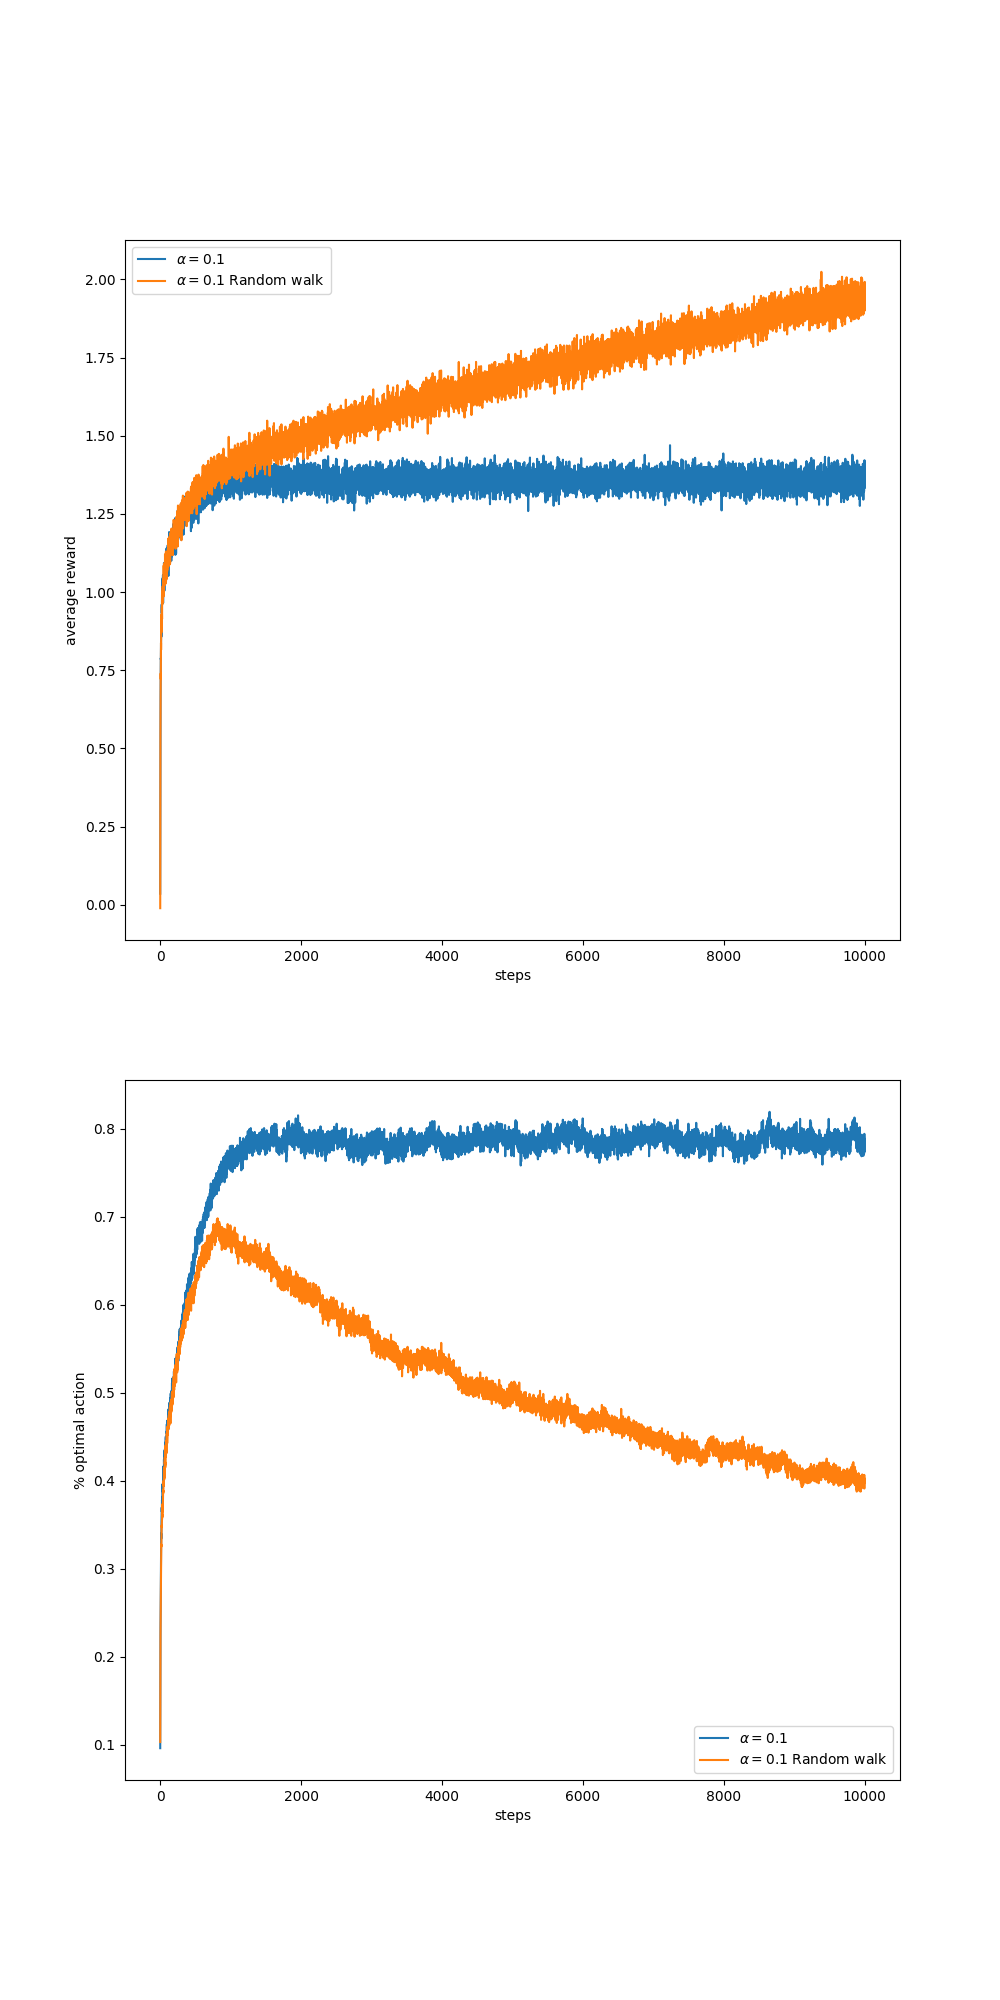
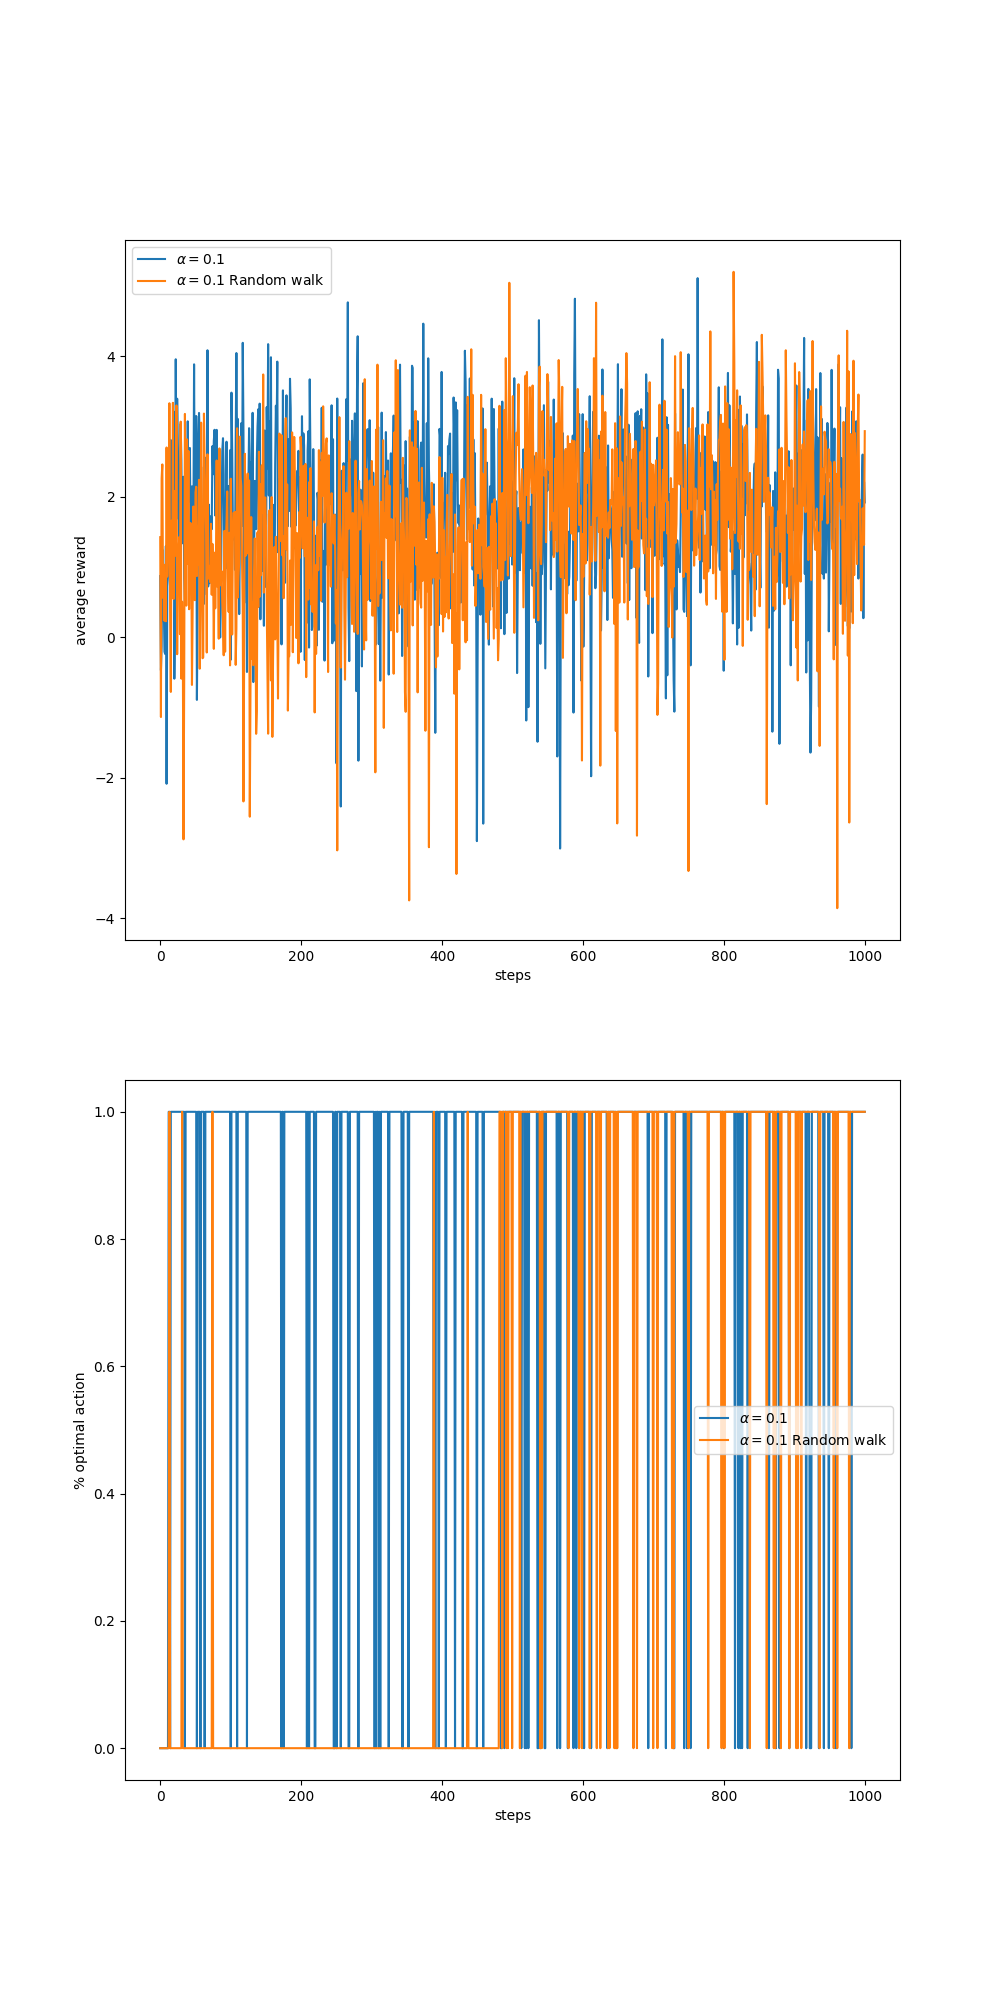
Error en exo 2.5

diff --git a/chapter02/random_walk.py b/chapter02/random_walk.py
@@ -9,6 +9,7 @@
 #######################################################################
 # Modified to include solution to programming exercises in Sutton&Barto 2018 edition.
 
+import pdb
 import matplotlib
 import matplotlib.pyplot as plt
 import numpy as np
@@ -123,7 +124,7 @@ def simulate(runs, time, bandits):
     mean_rewards = rewards.mean(axis=1)
     return mean_best_action_counts, mean_rewards
 
-def exercise_2_5_figure_e_2_5(runs=2000, time=10000):
+def exercise_2_5_figure_e_2_5(runs=1, time=10000):
     bandits = []
     bandits.append(Bandit(epsilon=0.1, step_size=0.1))
     ###bandits.append(Bandit(epsilon=0.1, sample_averages=True))
